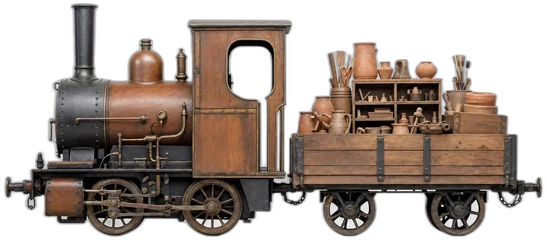
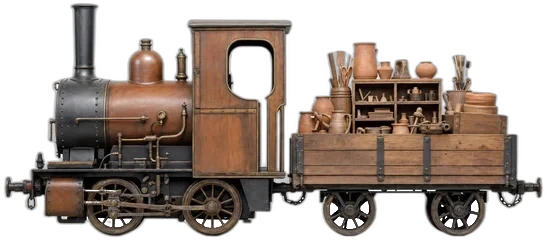
뚝딱뚝딱 꼼지락 클럽 카드: 소나무 판재 배경 + 감자꽃 제목, 기차 바퀴 스포크 투명 처리
Claude-Session: https://claude.ai/code/session_01B7nMrDVAhxnE98ccqfHJmc

diff --git a/index.html b/index.html
@@ -13,7 +13,7 @@
 <meta property="og:url" content="https://tunel.kr/">
 <link rel="preconnect" href="https://fonts.googleapis.com">
 <link rel="preconnect" href="https://fonts.gstatic.com" crossorigin>
-<link href="https://fonts.googleapis.com/css2?family=Noto+Serif+KR:wght@600;900&family=Do+Hyeon&family=Jua&family=Bagel+Fat+One&family=Black+Han+Sans&family=Dongle:wght@700&family=Gugi&family=Nanum+Pen+Script&family=Song+Myung&family=Nanum+Gothic+Coding&display=swap" rel="stylesheet">
+<link href="https://fonts.googleapis.com/css2?family=Noto+Serif+KR:wght@600;900&family=Do+Hyeon&family=Jua&family=Bagel+Fat+One&family=Black+Han+Sans&family=Dongle:wght@700&family=Gugi&family=Nanum+Pen+Script&family=Song+Myung&family=Nanum+Gothic+Coding&family=Gamja+Flower&display=swap" rel="stylesheet">
 <link rel="stylesheet" href="https://cdn.jsdelivr.net/gh/orioncactus/pretendard@v1.3.9/dist/web/static/pretendard.min.css">
 <link rel="stylesheet" href="https://cdn.jsdelivr.net/npm/galmuri@2.40.3/dist/galmuri.css">
 <style>
@@ -349,22 +349,24 @@ main{overflow:hidden;padding-left:0;padding-right:0}
 .tm .arrow{margin-left:auto;font-family:'Nanum Gothic Coding',monospace;font-size:10px;color:#3E7F94}
 
 /* ═══ 8 공방 — 크라프트 태그 ═══ */
-.cf{background:#E4CBB0;border-radius:4px;padding:14px 34px 14px 16px;position:relative;
-  box-shadow:0 3px 0 rgba(122,67,34,.16), 0 9px 16px rgba(122,67,34,.12);
-  background-image:repeating-linear-gradient(90deg, rgba(140,95,60,.055) 0 2px, transparent 2px 6px)}
-.cf .hole{position:absolute;right:12px;top:50%;transform:translateY(-50%);
-  width:13px;height:13px;border-radius:50%;background:var(--cream);
-  box-shadow:inset 0 1px 3px rgba(122,67,34,.45)}
-.cf .string{position:absolute;right:5px;top:calc(50% - 1px);width:14px;height:2px;
-  background:#B08D6A;transform:rotate(24deg);border-radius:2px}
-.cf .no{font-family:'Nanum Gothic Coding',monospace;font-size:9.5px;letter-spacing:2.5px;color:#8A5C39;text-align:right}
-.cf .nm{font-size:24px;font-weight:800;color:#5E3418;margin-top:4px;letter-spacing:-.5px}
-.cf .ds{font-size:11.5px;color:#7C5637;margin-top:8px;line-height:1.65}
+.cf{border-radius:4px;padding:14px 34px 14px 16px;position:relative;overflow:hidden;
+  box-shadow:0 3px 0 rgba(60,34,16,.3), 0 9px 16px rgba(0,0,0,.3)}
+.cf .bg{position:absolute;inset:0;z-index:0;background:url(v/wood_pine.webp) center/cover}
+.cf .ink{position:absolute;inset:0;z-index:1;pointer-events:none;
+  background:linear-gradient(180deg, rgba(90,52,20,.1), rgba(90,52,20,.22))}
+.cf .in{position:relative;z-index:2}
+.cf .hole{position:absolute;right:12px;top:50%;transform:translateY(-50%);z-index:2;
+  width:13px;height:13px;border-radius:50%;background:rgba(30,16,6,.55);
+  box-shadow:inset 0 1px 3px rgba(0,0,0,.6), 0 1px 0 rgba(255,235,205,.25)}
+.cf .no{font-family:'Nanum Gothic Coding',monospace;font-size:9.5px;letter-spacing:2.5px;color:#7A4A22;text-align:right}
+.cf .nm{font-family:'Gamja Flower',cursive;font-size:28px;font-weight:400;color:#4A2A10;margin-top:4px;
+  letter-spacing:0;text-shadow:0 1px 0 rgba(255,230,180,.45)}
+.cf .ds{font-size:11.5px;color:#5E3A18;margin-top:8px;line-height:1.65}
 .cf .foot{display:flex;align-items:center;margin-top:12px;padding-top:10px;
-  border-top:1px dashed rgba(122,67,34,.35)}
-.cf .st{font-size:10px;font-weight:800;letter-spacing:1px;color:#A15C2E;
-  border:1.5px solid #C87F4F;border-radius:3px;padding:3px 9px;transform:rotate(-3deg)}
-.cf .arrow{margin-left:auto;font-size:12px;color:#8A5C39;font-weight:700}
+  border-top:1px dashed rgba(90,52,20,.4)}
+.cf .st{font-size:10px;font-weight:800;letter-spacing:1px;color:#8A3F12;
+  border:1.5px solid #A9622C;border-radius:3px;padding:3px 9px;transform:rotate(-3deg)}
+.cf .arrow{margin-left:auto;font-size:12px;color:#7A4A22;font-weight:700}
 
 .card.soon{opacity:.9}
 
@@ -515,11 +517,13 @@ footer .ft{font-size:10.5px;color:#A79E8F;letter-spacing:1px;line-height:1.8}
   <a class="card soon">
     <img class="veh" src="v/A8_craft.webp" alt="">
     <div class="cf">
-      <div class="string"></div><div class="hole"></div>
-      <div class="no">PLATFORM 08</div>
-      <div class="nm">뚝딱뚝딱 꼼지락 클럽</div>
-      <div class="ds">원데이 클래스와 공예. 뚝딱 깎고 꼼지락 빚어서 하나 만들어 옵니다</div>
-      <div class="foot"><span class="st">빚는중</span><span class="arrow">작업실로 ›</span></div>
+      <div class="bg"></div><div class="ink"></div><div class="hole"></div>
+      <div class="in">
+        <div class="no">PLATFORM 08</div>
+        <div class="nm">뚝딱뚝딱 꼼지락 클럽</div>
+        <div class="ds">원데이 클래스와 공예. 뚝딱 깎고 꼼지락 빚어서 하나 만들어 옵니다</div>
+        <div class="foot"><span class="st">빚는중</span><span class="arrow">작업실로 ›</span></div>
+      </div>
     </div>
   </a>
 
